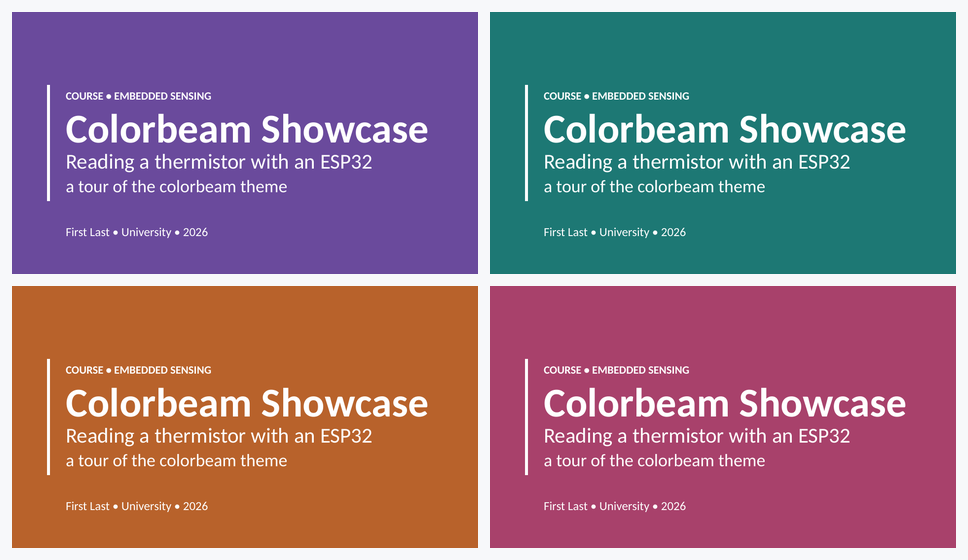
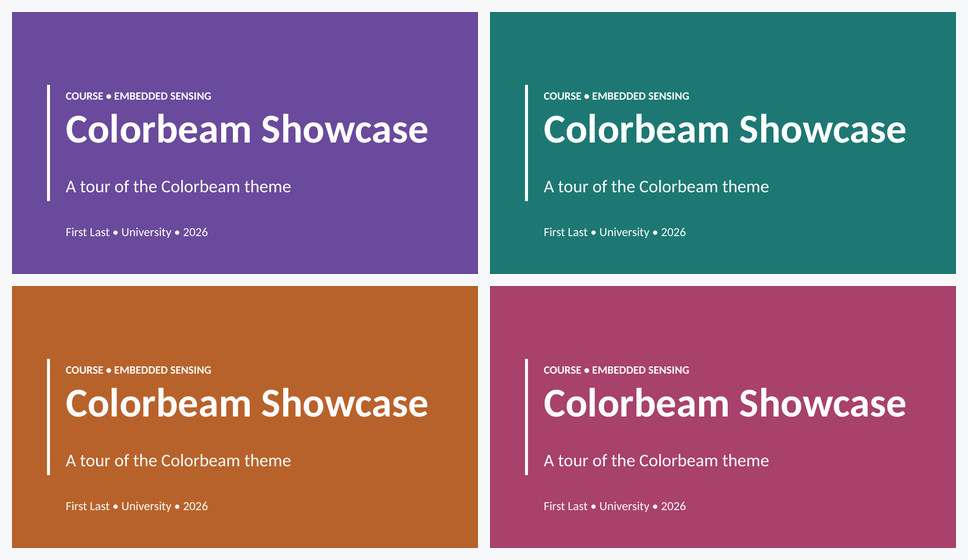
Initial GitHub Pages 4

diff --git a/colorbeam-template.tex b/colorbeam-template.tex
@@ -64,7 +64,7 @@
 % Title: \titleslide[color]{kicker}{title}{subtitle}{subtitle 2}{bottom note}
 % The optional color defaults to the main color of the deck.
 % ---------------------------------------------------------------------
-\titleslide{COURSE \textbullet\ EMBEDDED SENSING}{Colorbeam Showcase}{Reading a thermistor with an ESP32}{a tour of the colorbeam theme}{First Last \textbullet\ University \textbullet\ 2026}
+\titleslide{COURSE \textbullet\ EMBEDDED SENSING}{Colorbeam Showcase}{}{A tour of the Colorbeam theme}{First Last \textbullet\ University \textbullet\ 2026}
 
 % ---------------------------------------------------------------------
 % Outline: numbered steps, each one in the color of its part
